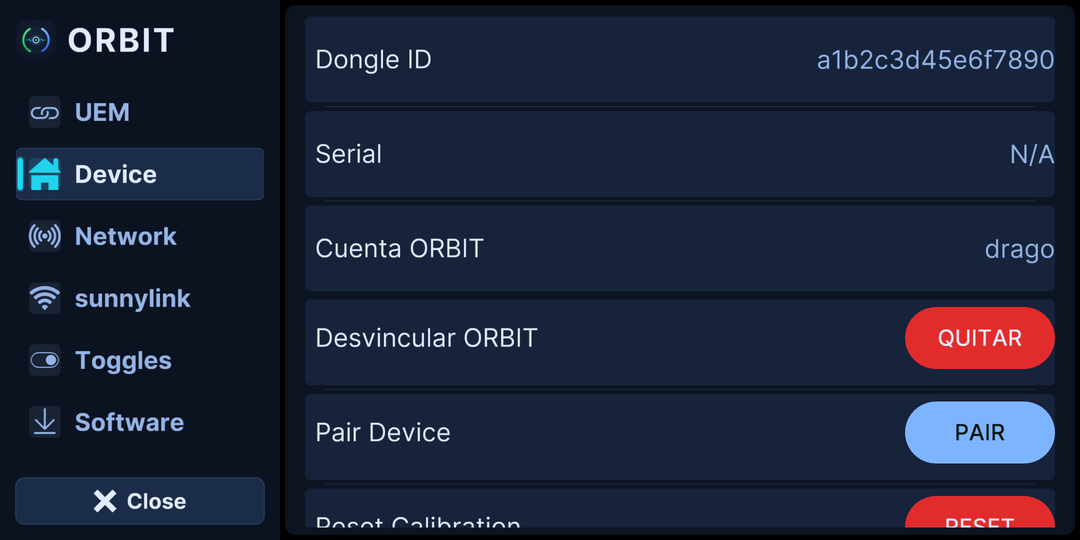
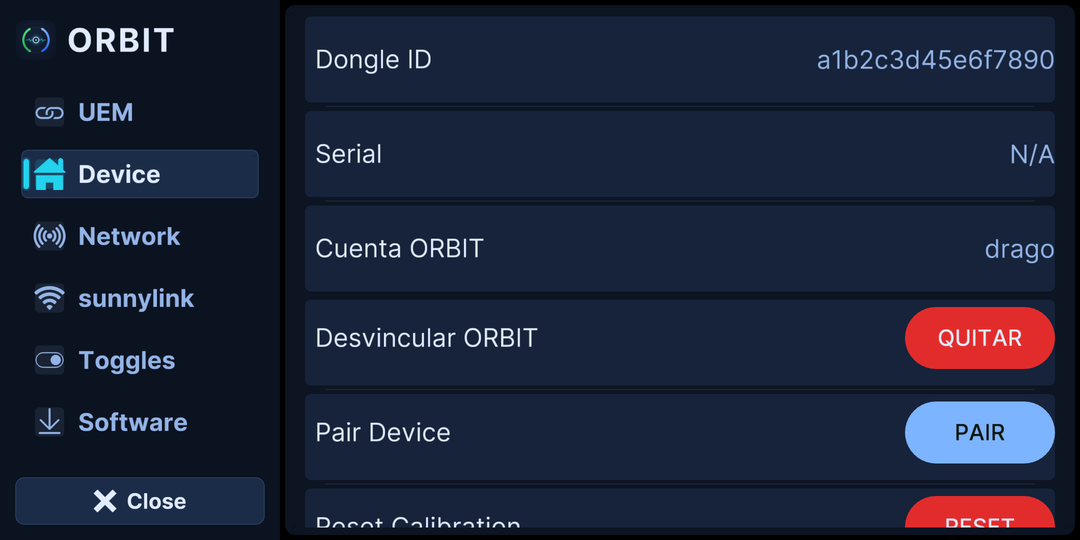
ui(settings): margen en las 4 caras de cada tile del rail (mas aire arriba/abajo + margen lateral)

diff --git a/selfdrive/ui/sunnypilot/layouts/settings/settings.py b/selfdrive/ui/sunnypilot/layouts/settings/settings.py
@@ -37,7 +37,8 @@ from openpilot.system.ui.widgets.scroller_tici import Scroller
 
 OP.PANEL_COLOR = rl.Color(13, 20, 34, 255)   # ORBIT dark ground (was near-black)
 ICON_SIZE = 64
-NAV_TILE_INSET = 11          # vertical inset per allocated row → visible gap between tiles
+NAV_TILE_INSET = 15          # vertical inset per allocated row → top/bottom margin between tiles
+NAV_TILE_H_INSET = 12        # horizontal inset → side margin so tiles float inside the rail
 
 OP.PanelType = IntEnum(
   "PanelType",
@@ -78,8 +79,11 @@ class NavButton(Widget):
     mouse_down = rl.is_mouse_button_down(rl.MouseButton.MOUSE_BUTTON_LEFT)
     hovered = rl.check_collision_point_rec(rl.get_mouse_position(), rect)
 
-    # Inset the visible tile so consecutive tiles read as clearly separated cards.
-    tile = rl.Rectangle(rect.x, rect.y + NAV_TILE_INSET, rect.width, rect.height - 2 * NAV_TILE_INSET)
+    # Inset the visible tile on all four sides so consecutive tiles read as
+    # clearly separated cards that float inside the rail (margin top/bottom/sides).
+    # The click target stays the full allocated row for an easy tap.
+    tile = rl.Rectangle(rect.x + NAV_TILE_H_INSET, rect.y + NAV_TILE_INSET,
+                        rect.width - 2 * NAV_TILE_H_INSET, rect.height - 2 * NAV_TILE_INSET)
     self.panel_info.button_rect = rect  # click detection maps to the allocated rect
 
     if is_selected:
